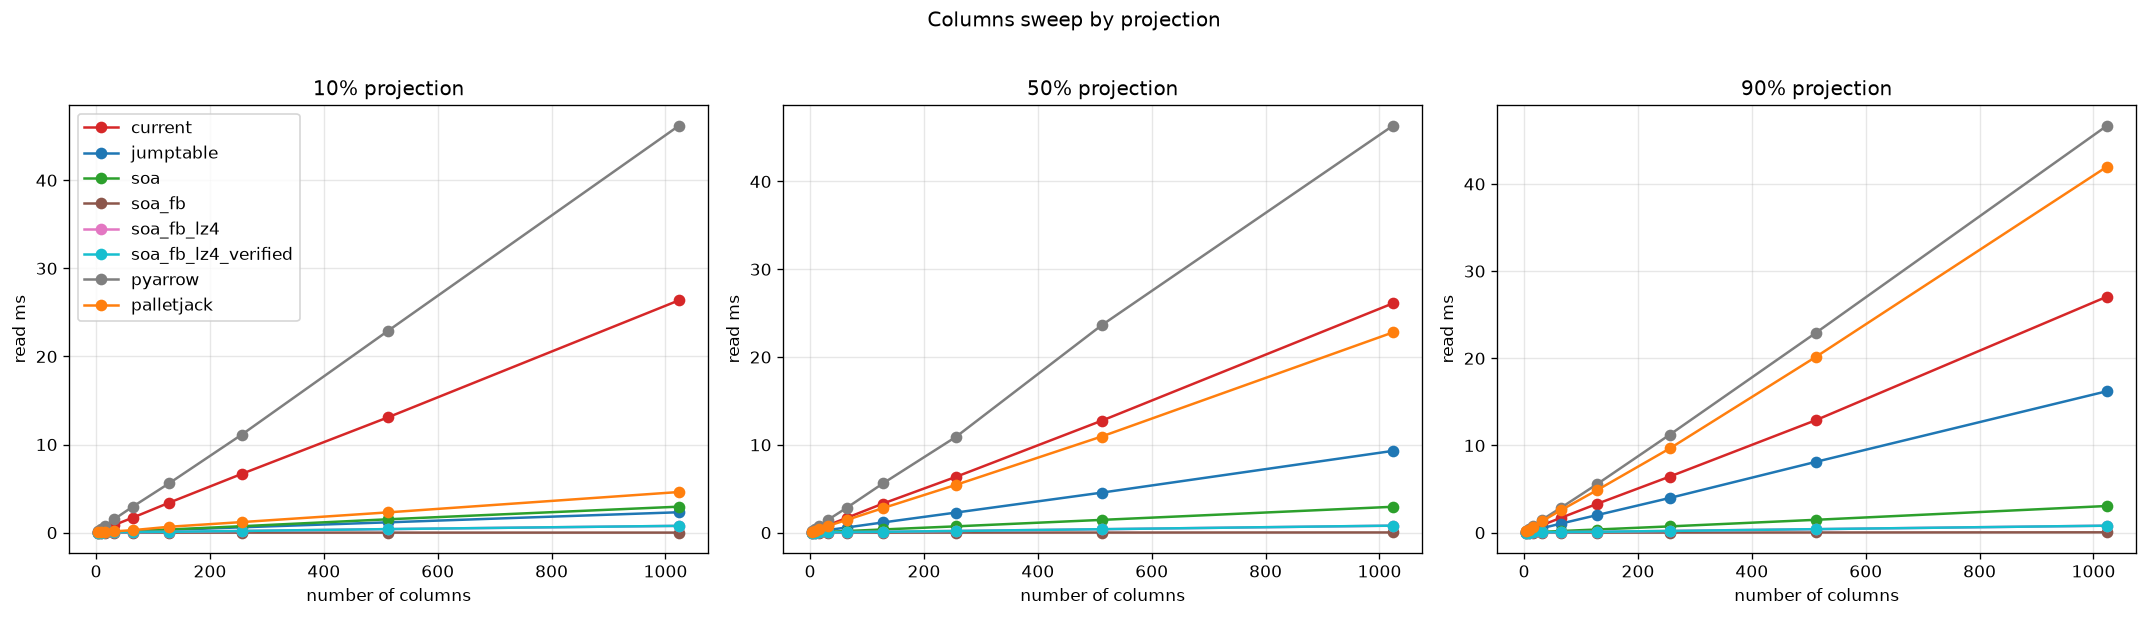
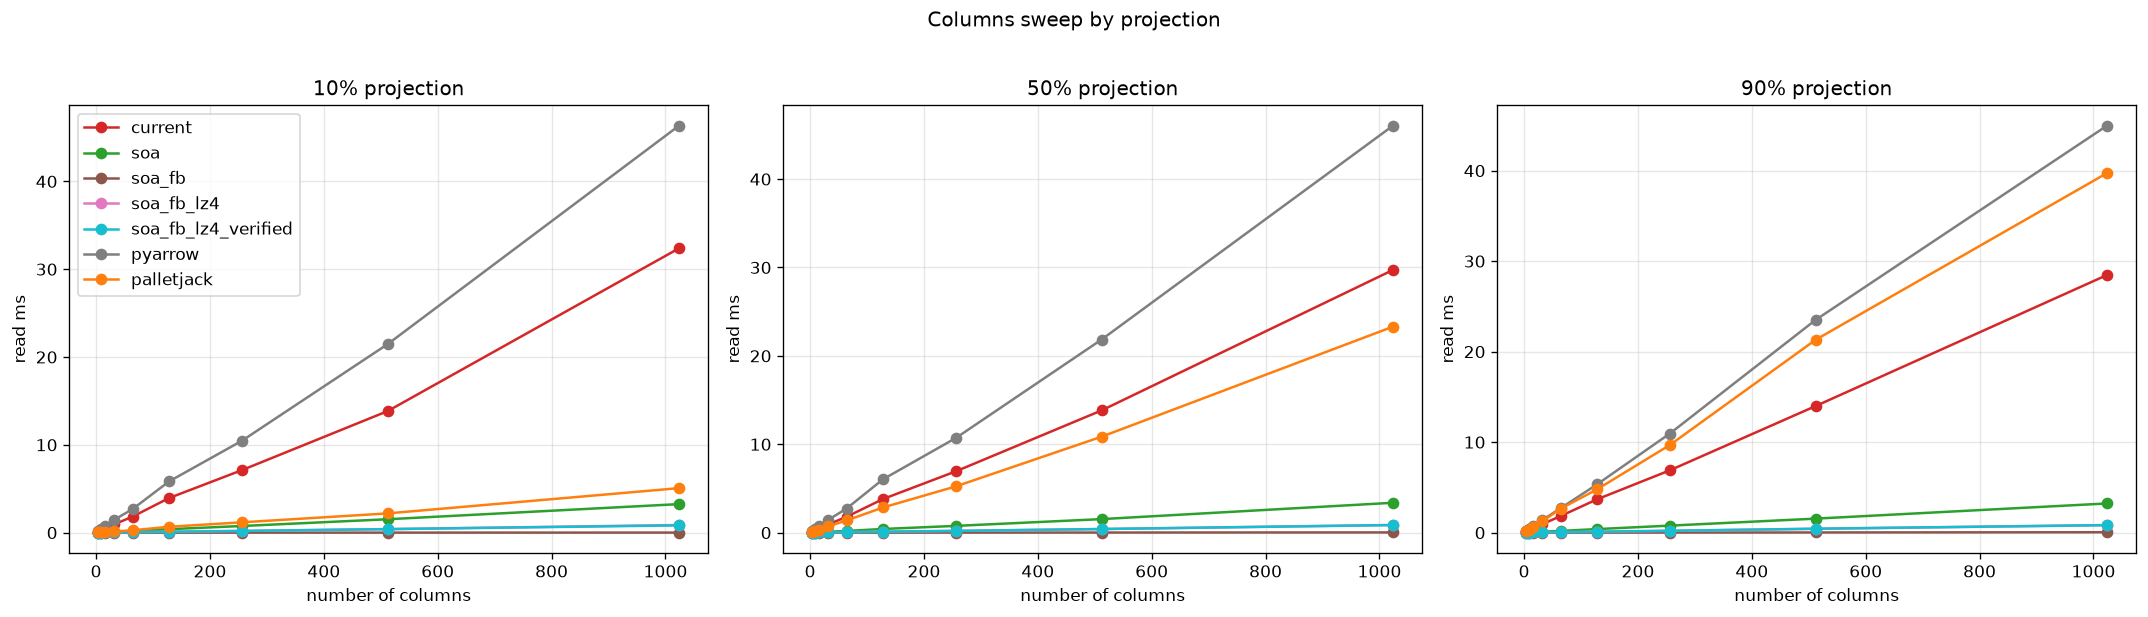
charts for footer sizes

diff --git a/parquet_footer_benchmarks_2026.py b/parquet_footer_benchmarks_2026.py
@@ -1,4 +1,7 @@
-"""# Parquet footer benchmarks (2026)
+"""### Previous versions:
+- [v2026-08](https://github.com/marcin-krystianc/ParquetFooterPlayground/tree/v2026-08)
+
+# Parquet footer benchmarks (2026)
 
 Parquet ([file format docs](https://parquet.apache.org/docs/file-format/)) stores its metadata
 footer as a nested array of Thrift structs, which forces a reader to decode the whole footer even
@@ -59,6 +62,7 @@ import pandas as pd
 import pyarrow as pa
 import pyarrow.parquet as pq
 import matplotlib.pyplot as plt
+import matplotlib.ticker as mticker
 import palletjack as pj
 from thriftpy2.protocol import TCompactProtocol, TCompactProtocolFactory
 from thriftpy2.transport import TMemoryBuffer
@@ -766,9 +770,14 @@ def run_benchmark():
 # Plots and tables
 # ---------------------------------------------------------------------------
 
-def plot_filename(sweep):
-    """PNG filename for a sweep's plot (also the relative link used in the README)."""
-    return f"{sweep.replace(' ', '_')}_sweep.png"
+def plot_filename(sweep, kind="read_ms"):
+    """PNG filename for a sweep's plot (also the relative link used in the README).
+
+    kind="read_ms" keeps the original bare `<sweep>_sweep.png` name; any other kind
+    (e.g. "bytes") gets its own suffixed file so the two plots don't collide.
+    """
+    suffix = "" if kind == "read_ms" else f"_{kind}"
+    return f"{sweep.replace(' ', '_')}_sweep{suffix}.png"
 
 
 colors = {
@@ -795,6 +804,51 @@ def plot_grid(table, sweep, x_label, title, path, *, xscale=None):
         ax.grid(alpha=.3, which="both")
     np.atleast_1d(axes)[0].legend()
     fig.suptitle(title, y=1.02)
+    fig.tight_layout()
+    fig.savefig(path, dpi=120, bbox_inches="tight")
+    plt.close(fig)
+    return path
+
+
+def plot_size(table, sweep, x_values, x_label, title, path):
+    """Render footer_bytes-vs-x (one line per format, log-log) to a PNG at `path`.
+
+    footer_bytes is constant across projection, so unlike plot_grid this is a single
+    panel, not a grid of one panel per projection. `x_values` (COLUMN_COUNTS or
+    ROW_GROUP_COUNTS) are the only x-axis ticks drawn: footer size spans kB to MB, and
+    the swept counts span 4 to 1024, so both axes need log scaling to stay readable,
+    but a matplotlib-autoscaled log axis picks decade ticks (10^0, 10^1, ...) that
+    don't line up with the actual data points. Pin ticks to the real x_values and to
+    the footer_bytes range instead, labelled as plain numbers / humanized sizes.
+
+    soa_fb_lz4_verified is skipped: it's the same buffer as soa_fb_lz4 (only the reader
+    differs), so its footer_bytes is identical and would just draw on top of that line.
+    """
+    data = table[table.sweep == sweep]
+    present = [f for f in DISPLAY_FORMATS if f in set(data.format) and f != "soa_fb_lz4_verified"]
+    fig, ax = plt.subplots(figsize=(7, 5))
+    for fmt in present:
+        series = data[data.format == fmt].sort_values("x_value").drop_duplicates("x_value")
+        ax.plot(series.x_value, series.footer_bytes, marker="o", color=colors[fmt], label=fmt)
+
+    ax.set_xscale("log")
+    ax.set_xticks(x_values)
+    ax.xaxis.set_major_formatter(mticker.ScalarFormatter())
+    ax.xaxis.set_minor_locator(mticker.NullLocator())
+
+    ymin, ymax = data.footer_bytes.min(), data.footer_bytes.max()
+    all_y_ticks = [n * 10 ** e for e in range(3, 8) for n in (1, 3)]
+    y_ticks = [t for t in all_y_ticks if ymin / 2 <= t <= ymax * 2]
+    ax.set_yscale("log")
+    ax.set_yticks(y_ticks)
+    ax.yaxis.set_major_formatter(mticker.FuncFormatter(lambda v, _: humanize.naturalsize(v)))
+    ax.yaxis.set_minor_locator(mticker.NullLocator())
+
+    ax.set_title(title)
+    ax.set_xlabel(x_label)
+    ax.set_ylabel("footer bytes")
+    ax.grid(alpha=.3, which="major")
+    ax.legend()
     fig.tight_layout()
     fig.savefig(path, dpi=120, bbox_inches="tight")
     plt.close(fig)
@@ -842,6 +896,51 @@ wanted chunks.
   metadata. Read fetches only the selected row groups/columns through the index instead of
   parsing the whole footer, so it accelerates the pyarrow baseline and converges to it as the
   projection approaches 100%.
+
+### current vs soa layout
+
+Note, that these diagrams show only the placement-info fields this benchmark reads.
+See `footer-core-current.thrift` and `footer-core-soa.thrift` for the full
+field lists.
+
+- `current` is array-of-structs: one `ColumnMetaData` struct per chunk, each carrying its own
+copy of every field.
+
+```text
+FileMetaData
+|
++-- row_groups[0]
+|     +-- columns[0].meta_data -> ColumnMetaData { type, encodings, path_in_schema, codec,
+|     |                             num_values, total_uncompressed_size,
+|     |                             total_compressed_size, data_page_offset, ... }
+|     +-- columns[1].meta_data -> ColumnMetaData { same fields, own copy }
+|     +-- columns[N].meta_data -> ColumnMetaData { same fields, own copy }
+|
++-- row_groups[1]
+|     +-- columns[0].meta_data -> ColumnMetaData { ... }
+|     +-- columns[1].meta_data -> ColumnMetaData { ... }
+|     +-- columns[N].meta_data -> ColumnMetaData { ... }
+|
++-- row_groups[G] ...
+```
+
+- `soa` is struct-of-arrays: one parallel array per field, shared across all chunks. Chunks are
+column-major, index `c * num_row_groups + g` (`ColumnChunkMatrix`, `footer-core-soa.thrift`).
+
+```text
+FileMetaData
+|
++-- row_groups: RowGroupMatrix
+|     num_rows            [ g0, g1, g2, ... gG ]            one i64 per row group
+|
++-- chunks: ColumnChunkMatrix        index = c * num_row_groups + g
+      data_page_offsets         [ chunk0, chunk1, chunk2, ... chunkN ]
+      dictionary_page_offsets   [ chunk0, chunk1, chunk2, ... chunkN ]
+      total_compressed_sizes    [ chunk0, chunk1, chunk2, ... chunkN ]
+      total_uncompressed_sizes  [ chunk0, chunk1, chunk2, ... chunkN ]
+      num_values                [ chunk0, chunk1, chunk2, ... chunkN ]
+      codecs                    [ chunk0, chunk1, chunk2, ... chunkN ]
+```
 """
 
 LEGEND = """\
@@ -869,9 +968,9 @@ B) **FileMetaData producers** - return a full pyarrow `FileMetaData` object grap
              columns via its index, so it accelerates the pyarrow baseline and converges
              to it as projection -> 100%. (columns / row-groups sweeps only.)
 
-Each sweep prints two tables: `read_ms` (by projection) and `footer_bytes`. The `footer_bytes` is
-the serialized footer size each producer emits (independent of projection).
-It is a size-on-disk metric, not necessarily the bytes touched by a projected read.
+Each sweep prints two tables: `read_ms` (by projection) and `footer_bytes`, plus a chart for
+each. The `footer_bytes` is the serialized footer size each producer emits (independent of
+projection). It is a size-on-disk metric, not necessarily the bytes touched by a projected read.
 """
 
 CONCLUSIONS = """\
@@ -977,6 +1076,7 @@ def markdown_report(results):
                 "**read_ms**\n",
                 "```text", _read_pivot(results, sweep, extra, x_name).to_string(), "```",
                 "\n**footer_bytes**\n",
+                f"![{title} — footer size]({plot_filename(sweep, 'bytes')})\n",
                 "```text", _size_pivot(results, sweep, extra, x_name).to_string(), "```",
             ]
     out += ["\n",CONCLUSIONS]
@@ -992,7 +1092,13 @@ def main():
                             "Columns sweep by projection", HERE / plot_filename("columns"))
     rowgroups_png = plot_grid(results, "row groups", "number of row groups",
                               "Row-group sweep by projection", HERE / plot_filename("row groups"))
-    print(f"wrote plots to {columns_png} and {rowgroups_png}")
+    columns_bytes_png = plot_size(results, "columns", COLUMN_COUNTS, "number of columns",
+                                  f"COLUMNS sweep — {ROW_GROUPS_FIXED} row groups fixed — footer size",
+                                  HERE / plot_filename("columns", "bytes"))
+    rowgroups_bytes_png = plot_size(results, "row groups", ROW_GROUP_COUNTS, "number of row groups",
+                                    f"ROW-GROUPS sweep — {COLUMNS_FIXED} columns fixed — footer size",
+                                    HERE / plot_filename("row groups", "bytes"))
+    print(f"wrote plots to {columns_png}, {rowgroups_png}, {columns_bytes_png} and {rowgroups_bytes_png}")
 
     readme = HERE / "README.md"
     readme.write_text(markdown_report(results))

diff --git a/README.md b/README.md
@@ -1,3 +1,6 @@
+### Previous versions:
+- [v2026-08](https://github.com/marcin-krystianc/ParquetFooterPlayground/tree/v2026-08)
+
 # Parquet footer benchmarks (2026)
 
 Parquet ([file format docs](https://parquet.apache.org/docs/file-format/)) stores its metadata
@@ -86,6 +89,51 @@ wanted chunks.
   parsing the whole footer, so it accelerates the pyarrow baseline and converges to it as the
   projection approaches 100%.
 
+### current vs soa layout
+
+Note, that these diagrams show only the placement-info fields this benchmark reads.
+See `footer-core-current.thrift` and `footer-core-soa.thrift` for the full
+field lists.
+
+- `current` is array-of-structs: one `ColumnMetaData` struct per chunk, each carrying its own
+copy of every field.
+
+```text
+FileMetaData
+|
++-- row_groups[0]
+|     +-- columns[0].meta_data -> ColumnMetaData { type, encodings, path_in_schema, codec,
+|     |                             num_values, total_uncompressed_size,
+|     |                             total_compressed_size, data_page_offset, ... }
+|     +-- columns[1].meta_data -> ColumnMetaData { same fields, own copy }
+|     +-- columns[N].meta_data -> ColumnMetaData { same fields, own copy }
+|
++-- row_groups[1]
+|     +-- columns[0].meta_data -> ColumnMetaData { ... }
+|     +-- columns[1].meta_data -> ColumnMetaData { ... }
+|     +-- columns[N].meta_data -> ColumnMetaData { ... }
+|
++-- row_groups[G] ...
+```
+
+- `soa` is struct-of-arrays: one parallel array per field, shared across all chunks. Chunks are
+column-major, index `c * num_row_groups + g` (`ColumnChunkMatrix`, `footer-core-soa.thrift`).
+
+```text
+FileMetaData
+|
++-- row_groups: RowGroupMatrix
+|     num_rows            [ g0, g1, g2, ... gG ]            one i64 per row group
+|
++-- chunks: ColumnChunkMatrix        index = c * num_row_groups + g
+      data_page_offsets         [ chunk0, chunk1, chunk2, ... chunkN ]
+      dictionary_page_offsets   [ chunk0, chunk1, chunk2, ... chunkN ]
+      total_compressed_sizes    [ chunk0, chunk1, chunk2, ... chunkN ]
+      total_uncompressed_sizes  [ chunk0, chunk1, chunk2, ... chunkN ]
+      num_values                [ chunk0, chunk1, chunk2, ... chunkN ]
+      codecs                    [ chunk0, chunk1, chunk2, ... chunkN ]
+```
+
 ## Reading these tables
 
 Values are `read_ms`: fastest wall-clock milliseconds over REPEATS runs. Note that the two categories
@@ -110,9 +158,9 @@ B) **FileMetaData producers** - return a full pyarrow `FileMetaData` object grap
              columns via its index, so it accelerates the pyarrow baseline and converges
              to it as projection -> 100%. (columns / row-groups sweeps only.)
 
-Each sweep prints two tables: `read_ms` (by projection) and `footer_bytes`. The `footer_bytes` is
-the serialized footer size each producer emits (independent of projection).
-It is a size-on-disk metric, not necessarily the bytes touched by a projected read.
+Each sweep prints two tables: `read_ms` (by projection) and `footer_bytes`, plus a chart for
+each. The `footer_bytes` is the serialized footer size each producer emits (independent of
+projection). It is a size-on-disk metric, not necessarily the bytes touched by a projected read.
 
 
 ## COLUMNS sweep — 100 row groups fixed
@@ -124,36 +172,38 @@ It is a size-on-disk metric, not necessarily the bytes touched by a projected re
 ```text
 format                           current    soa  soa_fb  soa_fb_lz4  soa_fb_lz4_verified  pyarrow  palletjack
 projection_pct n_columns chunks                                                                              
-10             4         400       0.126  0.014   0.000       0.006                0.006    0.196       0.055
-               8         800       0.230  0.025   0.000       0.011                0.011    0.367       0.054
-               16        1600      0.490  0.049   0.000       0.020                0.020    0.767       0.102
-               32        3200      0.926  0.096   0.000       0.039                0.039    1.427       0.148
-               64        6400      1.756  0.191   0.001       0.061                0.064    2.704       0.283
-               128       12800     3.529  0.369   0.001       0.096                0.096    5.324       0.622
-               256       25600     6.925  0.744   0.001       0.196                0.196   10.845       1.179
-               512       51200    13.512  1.489   0.003       0.402                0.406   21.644       2.229
-               1024      102400   27.465  3.065   0.005       0.800                0.802   44.007       4.287
-50             4         400       0.121  0.014   0.000       0.006                0.006    0.192       0.100
-               8         800       0.240  0.025   0.000       0.011                0.011    0.373       0.187
-               16        1600      0.459  0.049   0.001       0.020                0.021    0.754       0.366
-               32        3200      0.907  0.094   0.001       0.038                0.039    1.426       0.719
-               64        6400      1.740  0.187   0.002       0.061                0.064    2.717       1.379
-               128       12800     3.486  0.371   0.003       0.096                0.098    5.308       2.732
-               256       25600     6.779  0.749   0.006       0.199                0.200   10.919       5.374
-               512       51200    13.555  1.525   0.012       0.408                0.409   21.778      10.591
-               1024      102400   27.657  3.093   0.024       0.816                0.823   44.160      22.119
-90             4         400       0.121  0.014   0.000       0.006                0.006    0.191       0.191
-               8         800       0.238  0.025   0.001       0.011                0.011    0.368       0.302
-               16        1600      0.453  0.049   0.001       0.020                0.020    0.743       0.643
-               32        3200      0.864  0.096   0.002       0.039                0.041    1.429       1.268
-               64        6400      1.764  0.187   0.003       0.065                0.062    2.712       2.426
-               128       12800     3.451  0.372   0.005       0.099                0.101    5.330       4.776
-               256       25600     6.980  0.771   0.010       0.206                0.209   10.894       9.931
-               512       51200    13.634  1.523   0.020       0.415                0.417   21.478      19.824
-               1024      102400   27.963  3.069   0.041       0.831                0.835   44.191      39.940
+10             4         400       0.124  0.014   0.000       0.006                0.006    0.188       0.053
+               8         800       0.249  0.026   0.000       0.011                0.011    0.368       0.054
+               16        1600      0.474  0.050   0.000       0.020                0.020    0.755       0.102
+               32        3200      0.952  0.098   0.000       0.039                0.039    1.468       0.142
+               64        6400      1.822  0.193   0.001       0.061                0.064    2.680       0.265
+               128       12800     3.937  0.392   0.001       0.099                0.098    5.828       0.670
+               256       25600     7.116  0.757   0.002       0.195                0.195   10.459       1.175
+               512       51200    13.839  1.525   0.003       0.400                0.402   21.464       2.192
+               1024      102400   32.390  3.250   0.006       0.873                0.826   46.358       5.071
+50             4         400       0.125  0.014   0.000       0.006                0.006    0.191       0.104
+               8         800       0.242  0.029   0.001       0.012                0.011    0.365       0.185
+               16        1600      0.476  0.050   0.001       0.020                0.021    0.783       0.352
+               32        3200      0.939  0.098   0.001       0.039                0.039    1.455       0.721
+               64        6400      1.790  0.191   0.002       0.064                0.064    2.723       1.375
+               128       12800     3.803  0.415   0.003       0.106                0.106    6.036       2.846
+               256       25600     6.937  0.765   0.006       0.198                0.199   10.708       5.236
+               512       51200    13.831  1.532   0.012       0.408                0.410   21.850      10.855
+               1024      102400   29.730  3.381   0.026       0.867                0.859   46.057      23.312
+90             4         400       0.133  0.017   0.001       0.007                0.007    0.193       0.186
+               8         800       0.245  0.026   0.001       0.011                0.011    0.368       0.309
+               16        1600      0.474  0.049   0.001       0.022                0.021    0.777       0.636
+               32        3200      0.934  0.097   0.002       0.039                0.039    1.396       1.253
+               64        6400      1.830  0.192   0.003       0.065                0.062    2.694       2.637
+               128       12800     3.679  0.392   0.005       0.102                0.102    5.330       4.780
+               256       25600     6.888  0.775   0.010       0.202                0.205   10.950       9.685
+               512       51200    13.988  1.548   0.020       0.428                0.433   23.507      21.309
+               1024      102400   28.474  3.226   0.044       0.830                0.833   44.980      39.738
 ```
 
 **footer_bytes**
+
+![COLUMNS sweep — 100 row groups fixed — footer size](columns_sweep_bytes.png)
 
 ```text
 format             current       soa    soa_fb soa_fb_lz4 soa_fb_lz4_verified   pyarrow palletjack
@@ -178,36 +228,38 @@ n_columns chunks
 ```text
 format                              current    soa  soa_fb  soa_fb_lz4  soa_fb_lz4_verified  pyarrow  palletjack
 projection_pct n_row_groups chunks                                                                              
-10             4            400       0.122  0.022   0.000       0.006                0.007    0.321       0.029
-               8            800       0.231  0.034   0.000       0.010                0.010    0.496       0.046
-               16           1600      0.447  0.058   0.000       0.016                0.016    0.857       0.083
-               32           3200      0.922  0.103   0.000       0.029                0.029    1.517       0.144
-               64           6400      1.781  0.192   0.001       0.053                0.050    2.815       0.282
-               128          12800     3.460  0.364   0.001       0.096                0.097    5.284       0.586
-               256          25600     7.076  0.727   0.001       0.193                0.194   10.574       1.125
-               512          51200    13.669  1.477   0.002       0.391                0.390   21.374       2.293
-               1024         102400   27.971  2.960   0.004       0.812                0.810   43.148       4.432
-50             4            400       0.125  0.022   0.000       0.006                0.007    0.316       0.122
-               8            800       0.234  0.034   0.000       0.010                0.011    0.495       0.208
-               16           1600      0.452  0.057   0.001       0.016                0.017    0.861       0.370
-               32           3200      0.899  0.102   0.001       0.028                0.029    1.477       0.723
-               64           6400      1.778  0.189   0.002       0.048                0.052    2.724       1.392
-               128          12800     3.468  0.368   0.003       0.098                0.099    5.271       2.775
-               256          25600     6.787  0.727   0.005       0.196                0.198   10.490       5.241
-               512          51200    13.913  1.465   0.010       0.397                0.397   21.282      10.815
-               1024         102400   28.791  3.130   0.019       0.824                0.823   43.200      22.730
-90             4            400       0.122  0.023   0.001       0.006                0.007    0.320       0.211
-               8            800       0.228  0.034   0.001       0.010                0.011    0.479       0.364
-               16           1600      0.439  0.057   0.001       0.016                0.016    0.838       0.671
-               32           3200      0.898  0.102   0.001       0.028                0.029    1.493       1.287
-               64           6400      1.771  0.194   0.003       0.052                0.053    2.733       2.405
-               128          12800     3.522  0.373   0.005       0.098                0.101    5.306       4.701
-               256          25600     6.935  0.731   0.009       0.200                0.199   10.322       9.423
-               512          51200    14.213  1.479   0.017       0.405                0.404   21.302      19.656
-               1024         102400   28.585  2.989   0.034       0.835                0.835   43.318      39.256
+10             4            400       0.126  0.023   0.000       0.006                0.007    0.353       0.031
+               8            800       0.236  0.034   0.000       0.010                0.010    0.493       0.045
+               16           1600      0.460  0.059   0.000       0.016                0.016    0.851       0.081
+               32           3200      0.911  0.105   0.000       0.028                0.029    1.527       0.148
+               64           6400      1.840  0.197   0.001       0.052                0.049    2.900       0.289
+               128          12800     3.585  0.383   0.001       0.096                0.095    5.374       0.584
+               256          25600     7.066  0.741   0.001       0.191                0.193   10.652       1.177
+               512          51200    14.429  1.482   0.002       0.393                0.391   21.264       2.286
+               1024         102400   28.547  3.034   0.004       0.811                0.813   43.070       4.563
+50             4            400       0.128  0.025   0.000       0.007                0.007    0.336       0.135
+               8            800       0.238  0.035   0.000       0.010                0.010    0.512       0.211
+               16           1600      0.474  0.059   0.001       0.016                0.017    0.840       0.374
+               32           3200      0.962  0.106   0.001       0.029                0.029    1.523       0.736
+               64           6400      1.829  0.194   0.002       0.051                0.049    2.771       1.391
+               128          12800     3.574  0.385   0.003       0.100                0.101    5.404       2.655
+               256          25600     6.952  0.747   0.005       0.195                0.195   10.617       5.384
+               512          51200    14.201  1.549   0.010       0.409                0.399   21.601      10.778
+               1024         102400   28.997  2.986   0.019       0.824                0.821   43.772      22.573
+90             4            400       0.136  0.025   0.001       0.007                0.007    0.339       0.213
+               8            800       0.256  0.035   0.001       0.010                0.011    0.512       0.359
+               16           1600      0.459  0.059   0.001       0.016                0.016    0.820       0.694
+               32           3200      0.921  0.114   0.001       0.031                0.032    1.471       1.254
+               64           6400      1.819  0.199   0.002       0.053                0.054    2.830       2.419
+               128          12800     3.552  0.383   0.005       0.098                0.099    5.259       4.726
+               256          25600     7.150  0.766   0.010       0.205                0.200   10.773       9.812
+               512          51200    14.507  1.937   0.019       0.461                0.456   21.685      19.162
+               1024         102400   29.568  3.170   0.036       0.836                0.834   42.868      39.678
 ```
 
 **footer_bytes**
+
+![ROW-GROUPS sweep — 100 columns fixed — footer size](row_groups_sweep_bytes.png)
 
 ```text
 format                current       soa    soa_fb soa_fb_lz4 soa_fb_lz4_verified   pyarrow palletjack
